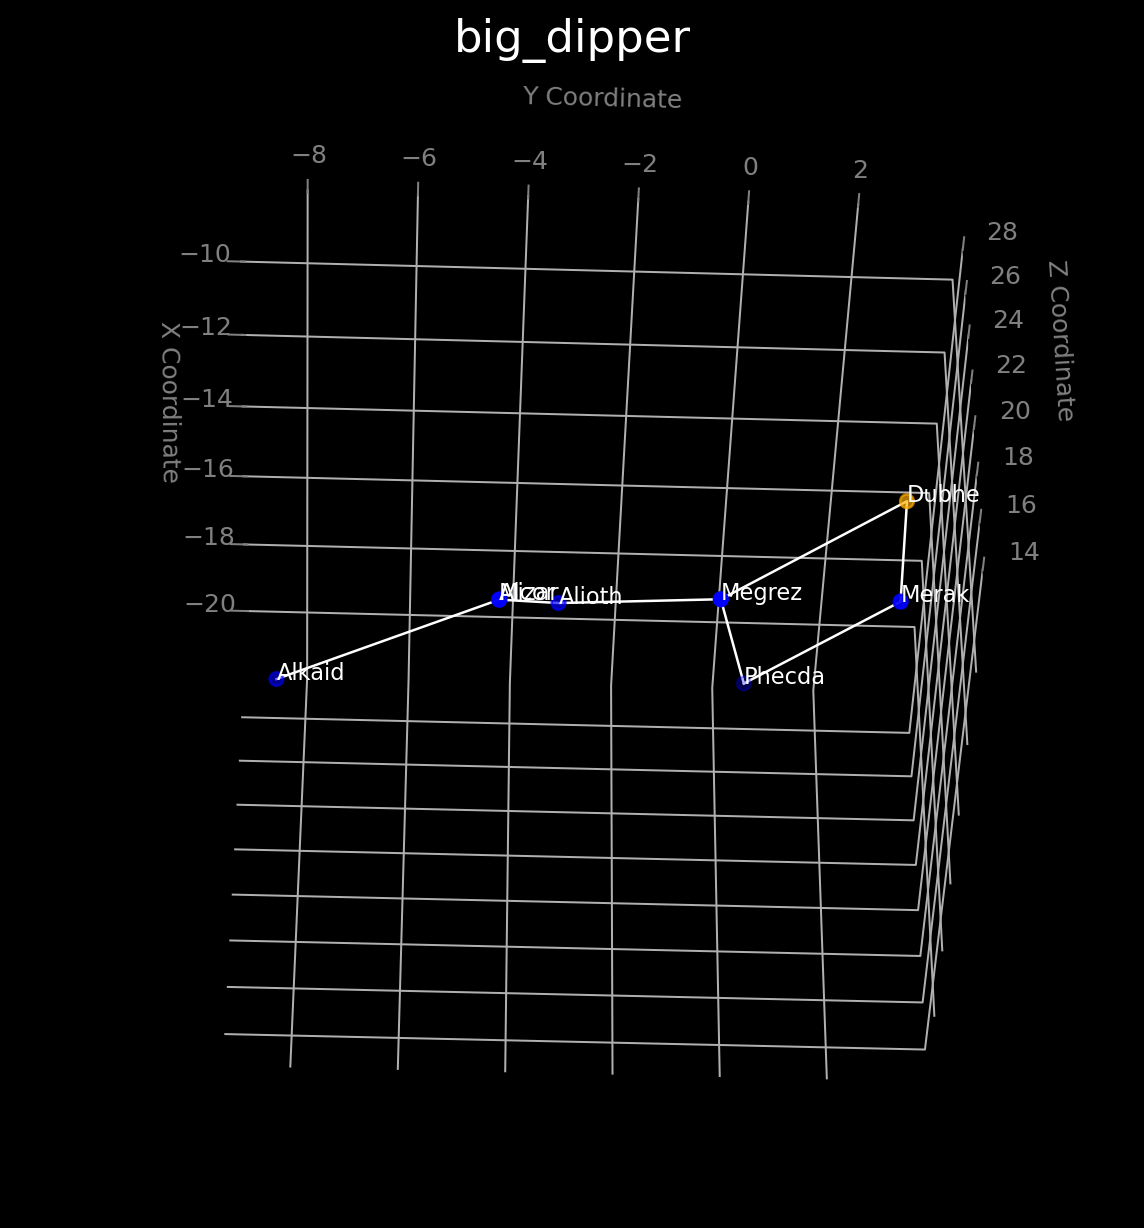
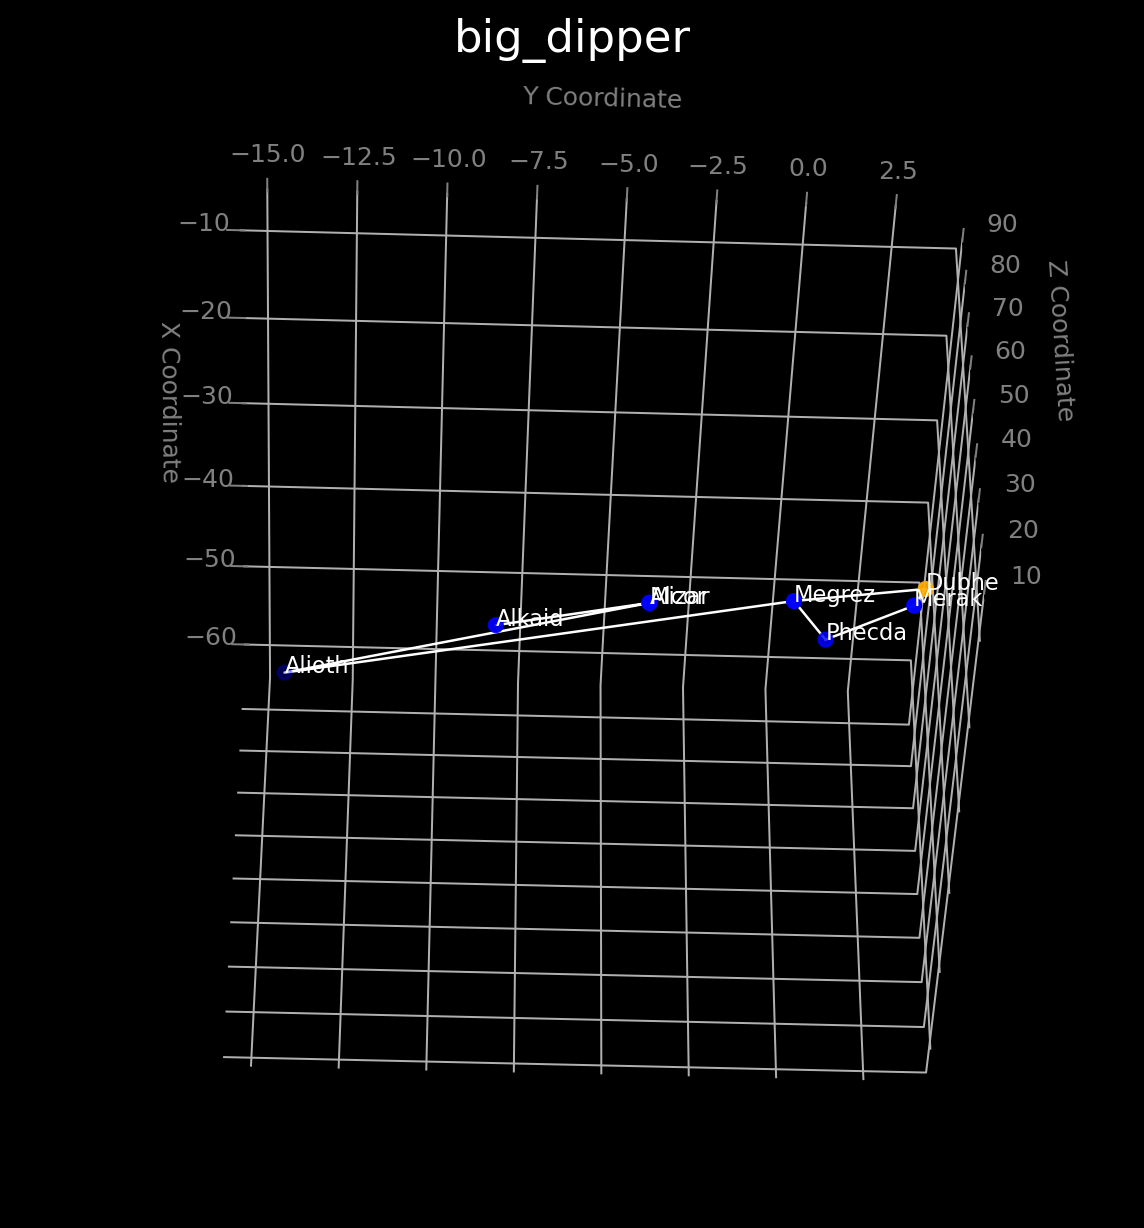
begin to add ursa major

diff --git a/src/calculations.py b/src/calculations.py
@@ -3,13 +3,22 @@ import pandas as pd
 
 def star_data_calculator(df, ordered_star_names=None):
 
+    # avoid settingwithcopywarning from pandas
+    df = df.copy()    
+
     if ordered_star_names is not None:
         # create order to the stars, this allows for connecting the stars using a line plot in plotter.py
         df['common_name'] = pd.Categorical(df['common_name'], categories=ordered_star_names, ordered=True)
         df = df.sort_values(by='common_name')
+    
+        # error corrector
+        df.loc[df['common_name'] == 'Alioth', 'distance'] = 25
 
     # remove any NaN and zero values found in parallax column
     df = df[(df['parallax'].notna() & df.parallax != 0)]
+    
+    # Replace NaN values in 'bv_color' with 0.5
+    df['bv_color'] = df['bv_color'].fillna(0.5)
 
     # turns degrees to radians (np.sin and np.cos already do this but this will update the df)
     df['dec'] = df.apply(lambda row: degrees_to_radians(row['dec']), axis=1)
@@ -18,16 +27,13 @@ def star_data_calculator(df, ordered_star_names=None):
     # Calculate x, y, z coordinates and RGB colors, and add them to the df
     df['distance'] = df.apply(lambda row: calculate_distance(row['parallax']), axis=1)
 
-    # seems to be an error in data_j2000.csv with the parallax of Alioth
-    df.loc[df['common_name'] == 'Alioth', 'distance'] = 25
-
     # create x y z coordinates in the df using distance, declination and right acension
     df['x_coordinate'] = df.apply(lambda row: calculate_x_coordinate((row['distance']), row['dec'], row['ra']), axis=1)
     df['y_coordinate'] = df.apply(lambda row: calculate_y_coordinate((row['distance']), row['dec'], row['ra']), axis=1)
     df['z_coordinate'] = df.apply(lambda row: calculate_z_coordinate((row['distance']), row['dec']), axis=1)
 
     # creates a color variable to each star (approximatly)
-    df['rgb_color'] = df['bv_color'].apply(bv_color_to_rgb)
+    df['rgb_color'] = df['bv_color'].apply(lambda row: bv_color_to_rgb(row))
 
     return df
 

diff --git a/src/constellations.py b/src/constellations.py
@@ -1,0 +1,35 @@
+import os
+import pandas as pd
+
+from data_handler import load_data, check_and_convert_types
+from calculations import calculate_distance, calculate_x_coordinate, calculate_y_coordinate, calculate_z_coordinate, bv_color_to_rgb, degrees_to_radians, star_data_calculator
+from plotter import plot_3d_scatter
+
+def ursa_major():
+
+    # current directory
+    current_dir = os.path.dirname('src')
+
+    # directory of data relative to current directory
+    data_file_path = os.path.join(current_dir, '..', 'data', 'data_j2000.csv')
+
+    # load data from csv to pandas dataframe
+    df = load_data(data_file_path)
+
+    # check if types are correct and convert if otherwise
+    df = check_and_convert_types(df)
+
+    # gets stars in the ursa major constellation
+    df = df[df['alt_name'].str.contains('UMa')]
+    print(df)
+    print(len(df))
+    
+    # apply calculations such as getting coordinates and color 
+    df = star_data_calculator(df)
+
+    title = 'ursa_major'
+
+    # plots ursa major constellation
+    fig, ax, view = plot_3d_scatter(df.x_coordinate.values, df.y_coordinate.values, df.z_coordinate.values, df.rgb_color.values, title=title)
+
+    return title, fig, ax, view

diff --git a/src/main.py b/src/main.py
@@ -1,4 +1,5 @@
 from asterisms import big_dipper, little_dipper, summer_triangle
+from constellations import ursa_major
 from plotter import capture_gif
 
 # call functions to plot stars in the big dipper asterism
@@ -13,3 +14,5 @@ title, fig, ax, view = little_dipper()
 
 title, fig, ax, view = summer_triangle()
 #capture_gif(title, fig, ax, view)
+
+title, fig, ax, view = ursa_major()
